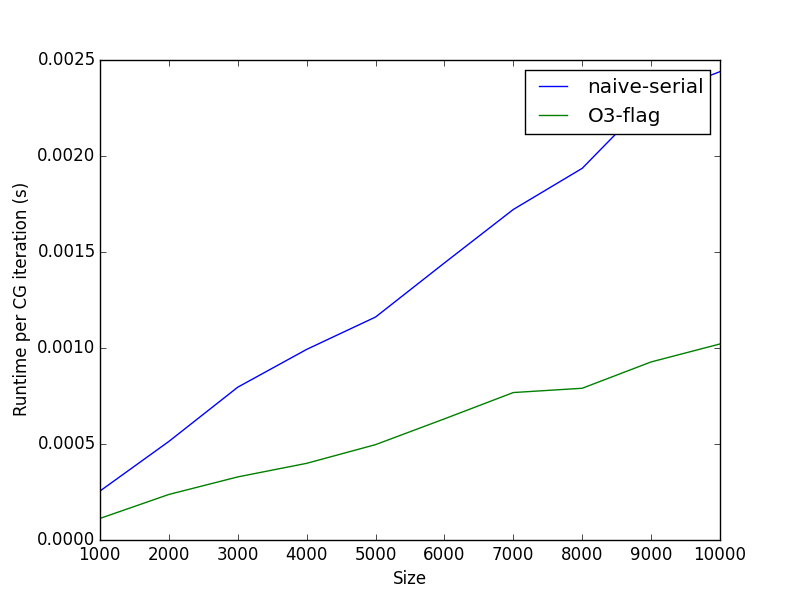
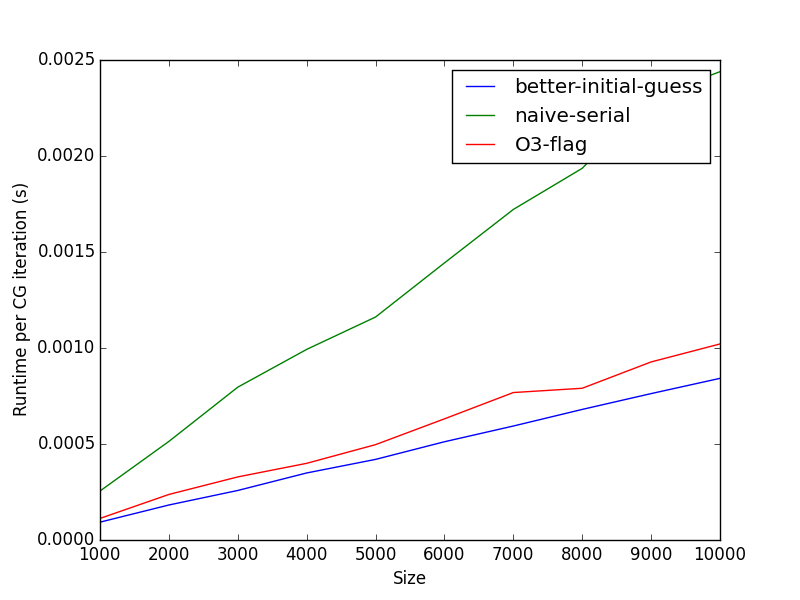
added better initial guess for the iterative solution.

diff --git a/project/report/project.tex b/project/report/project.tex
@@ -556,13 +556,19 @@ call conjugategradient()
 deallocate(qp, wt, x, kel, rel, phi, dphi, rglob, a, aprev, z, zprev, res, LM)
 \end{lstlisting}
 
-The remainder of this section will discuss changes made to this serial algorithm just described in order to obtain better serial performance. With no compiler flags, the runtime of this serial code on 2.5 GHz Intel Core i5 is shown below for 1000 to 10000 finite elements. By measuring the runtime of the {\tt conjugategradient} subroutine, it can be seen that the total runtime is almost entirely due to the conjugate gradient solution. Hence, most effort will be spent optimizing this function. The number of CG iterations increases with the number of elements - without preconditioning, this cannot be changed and is a feature of the numerical method. However, what {\it can} be improved through code adjustments is the runtime per CG iteration, shown in Fig. \ref{fig:runtime_per_CG} below. As can be seen, the runtime for each CG iteration is not constant, and this is due to the fact that the larger the number of elements, the larger the matrix multiplications and vector dot products inherent to the iterative solver. 
+The remainder of this section will discuss changes made to this serial algorithm just described in order to obtain better serial performance. With no compiler flags, the runtime of this serial code on 2.5 GHz Intel Core i5 is shown below for 1000 to 10000 finite elements. By measuring the runtime of the {\tt conjugategradient} subroutine, it can be seen that the total runtime is almost entirely due to the conjugate gradient solution. Hence, most effort will be spent optimizing this function. The number of CG iterations increases with the number of elements - without preconditioning, this cannot be changed and is a feature of the numerical method. However, what {\it can} be improved through code adjustments is the runtime per CG iteration, shown in Fig. \ref{fig:runtime_per_CG} below. As can be seen, the runtime for each CG iteration is not constant, and this is due to the fact that the larger the number of elements, the larger the matrix multiplications and vector dot products inherent to the iterative solver. A very simple change that can be done is to use a better starting guess for the iterative solution. By changing the initial guess from unity to a straight line between the left and right Dirichlet boundary conditions, the runtime per CG iteration drops by about a factor of 10 due to the factor of 10 lower iterations required due to being closer to the true numerical solution.
 
+% better-initial-guess.txt : sets a better guess for a
 \begin{figure}[H]
 \centering
 \includegraphics[width=0.6\linewidth]{../figures/O3-flag-runtime-per-CG.png}
 \caption{Runtime per CG iteration as a function of the number of elements with the naive serial code (no compiler flags) and the same code compiled with the {\tt -O3} option. The same number of iterations are performed for each number of discrete elements.}
 \end{figure}
+
+A challenge associated with an iterative solution scheme is that it is not easily parallelizable - each iteration of the loop depends on previous solution iterates, and while the matrix multiplication and dot products can be easily parallelized, some quantities, such as \(\theta\) and \(\lambda\), require the aggregate matrix-vector products and vector-vector products, and hence the entire iterative solution cannot be performed completely independently for sections of the numerical solution.
+
+\subsection{Reducing FLOPs}
+The first, and perhaps most obvious, way to improve performance is to reduce unnecessary computation. This can be done in the {\tt conjugategradient} function by not performing {\tt sparse_mult} 
 
 \subsection{Vectorization}
 

diff --git a/project/plot.py b/project/plot.py
@@ -7,7 +7,7 @@ num_files = (len(sys.argv) - 1)/2
 
 filenames = []
 descriptions = []
-for i in range(0, num_files + 1, 2):
+for i in range(0, 2*num_files, 2):
 	filenames.append(sys.argv[i + 1])
 	descriptions.append(sys.argv[i + 2])
 
